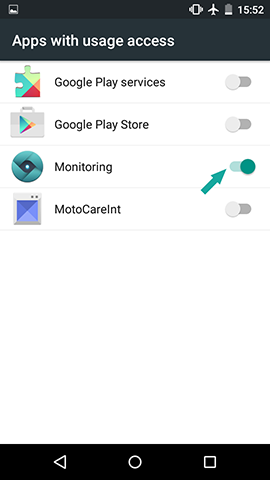
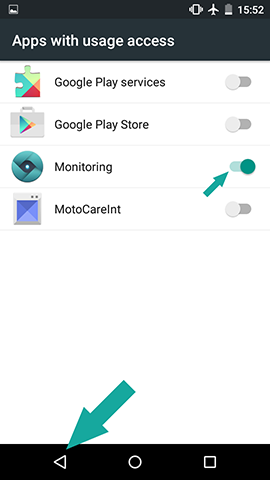
SD-2100 update android install instruction

Changed region(s): [[0.237, 0.7812, 0.5037, 0.9375], [0.7407, 0.3438, 0.8593, 0.4062]]

diff --git a/app/templates/wizard/android/setup.instruction.list.htm b/app/templates/wizard/android/setup.instruction.list.htm
@@ -40,20 +40,20 @@
     <p><img class="img-thumbnail" src="{$di.config.staticDomain}/images/how-to-install/android-instructions/3-5.png" /></p>
 </li>
 <li>
-    <p>Tap &quot;<strong>Activate</strong>&quot; to proceed.</p>
-    <p><img class="img-thumbnail" src="{$di.config.staticDomain}/images/how-to-install/android-instructions/3-7.png" /></p>
-</li>
-<li>
     <p>Move the switch to the right to enable &quot;Monitoring&quot;.</p>
     <p><img class="img-thumbnail" src="{$di.config.staticDomain}/images/how-to-install/android-instructions/3-8.png" /></p>
 </li>
 <li>
-    <p>Tap &quot;OK&quot; to allow access;</p>
+    <p>Tap &quot;OK&quot; to allow access.</p>
     <p><img class="img-thumbnail" src="{$di.config.staticDomain}/images/how-to-install/android-instructions/3-9.png" /></p>
 </li>
 <li>
-    <p>Now &quot;Monitoring&quot; is enabled;</p>
+    <p>Now &quot;Monitoring&quot; is enabled. Tap &quot;Back&quot; to return to the Pumpic app.</p>
     <p><img class="img-thumbnail" src="{$di.config.staticDomain}/images/how-to-install/android-instructions/3-10.png" /></p>
+</li>
+<li>
+    <p>Tap &quot;<strong>Activate</strong>&quot; to proceed.</p>
+    <p><img class="img-thumbnail" src="{$di.config.staticDomain}/images/how-to-install/android-instructions/3-7.png" /></p>
 </li>
 <li>
     <p>Check the &quot;<strong>Accept</strong>&quot; box and tap &quot;<strong>Next</strong>&quot;.</p>
